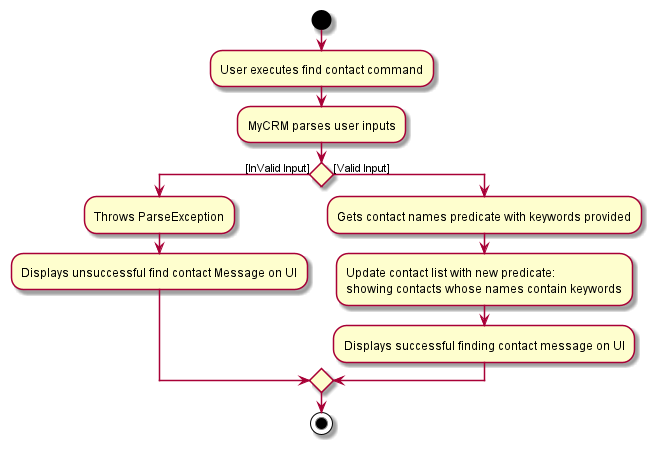
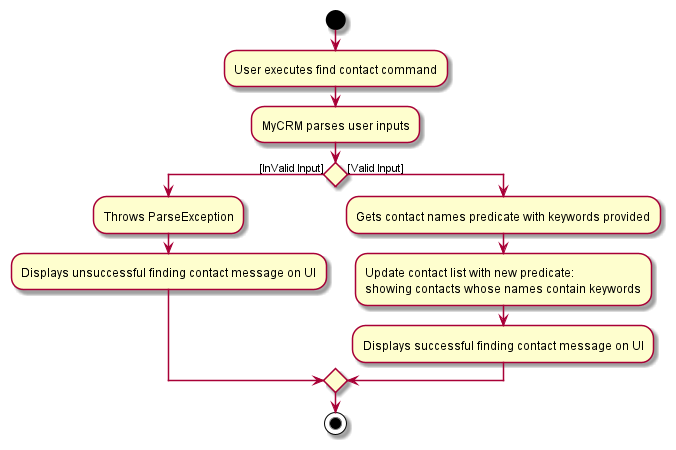
Update format of diagrams and ppp

diff --git a/docs/team/hangzelin.md b/docs/team/hangzelin.md
@@ -83,6 +83,7 @@ Given below are my contributions to the project.
     **contact** command features.
     * Added [use cases](https://ay2122s1-cs2103-t14-3.github.io/tp/DeveloperGuide.html#use-cases) of all **contact** command features.  
       (Please scroll down to see contact command features part.)
+    * Added [Instructions for manual testing](https://github.com/AY2122S1-CS2103-T14-3/tp/blob/master/docs/DeveloperGuide.md#appendix-instructions-for-manual-testing) for all **contact** command features
 
 * **Community**:
     * Helped changed **completion status of a job** into a new component in Job model.
